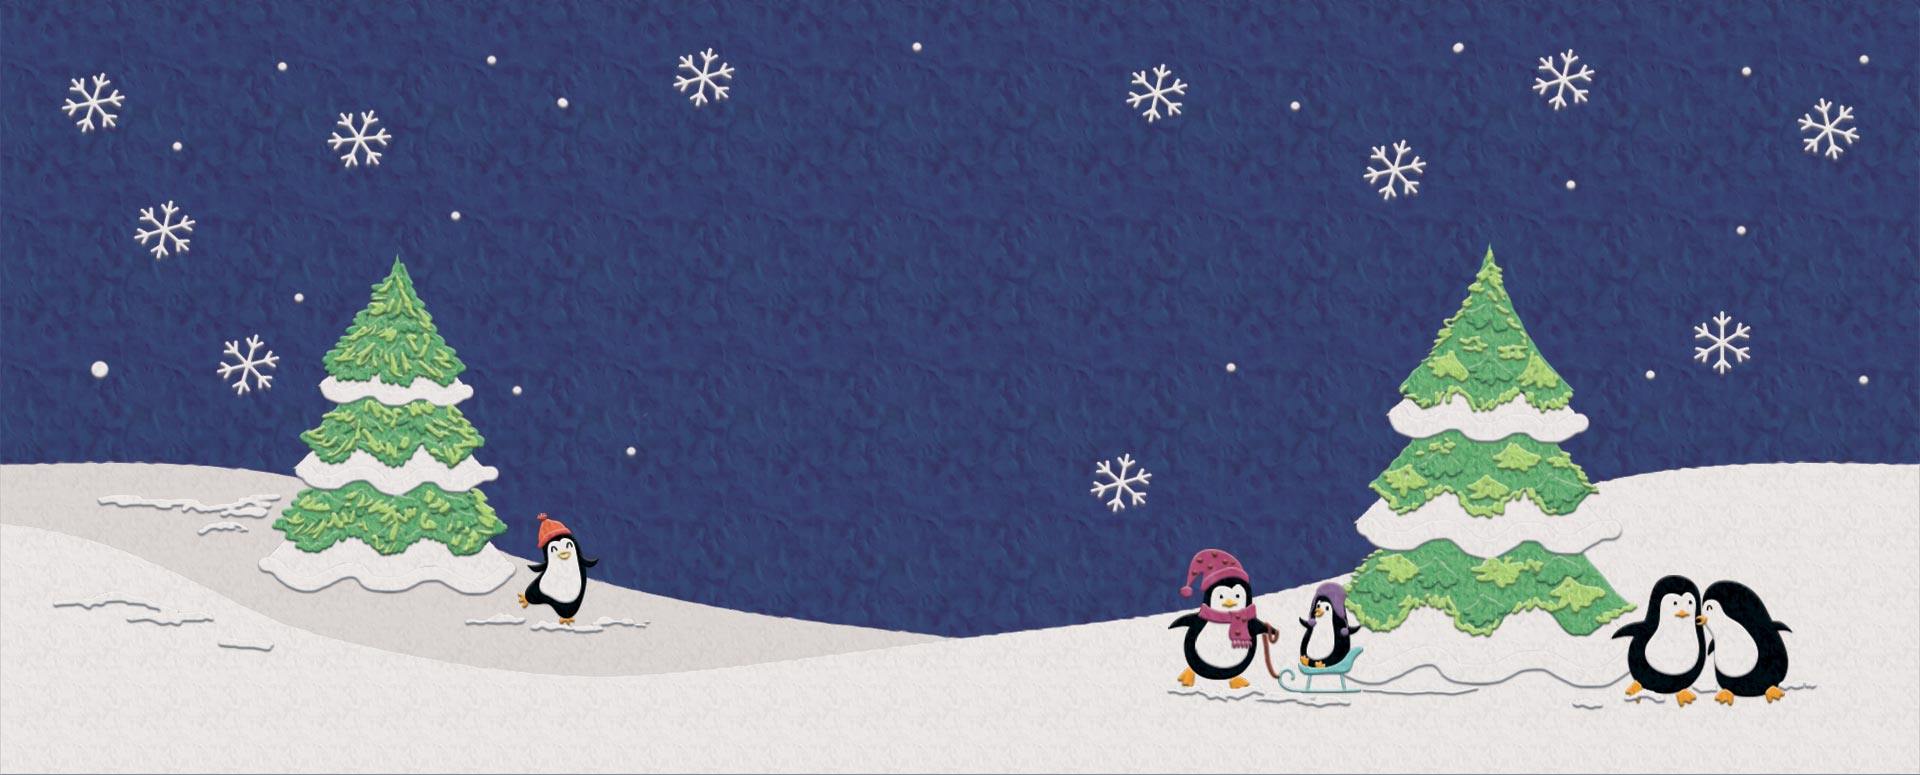
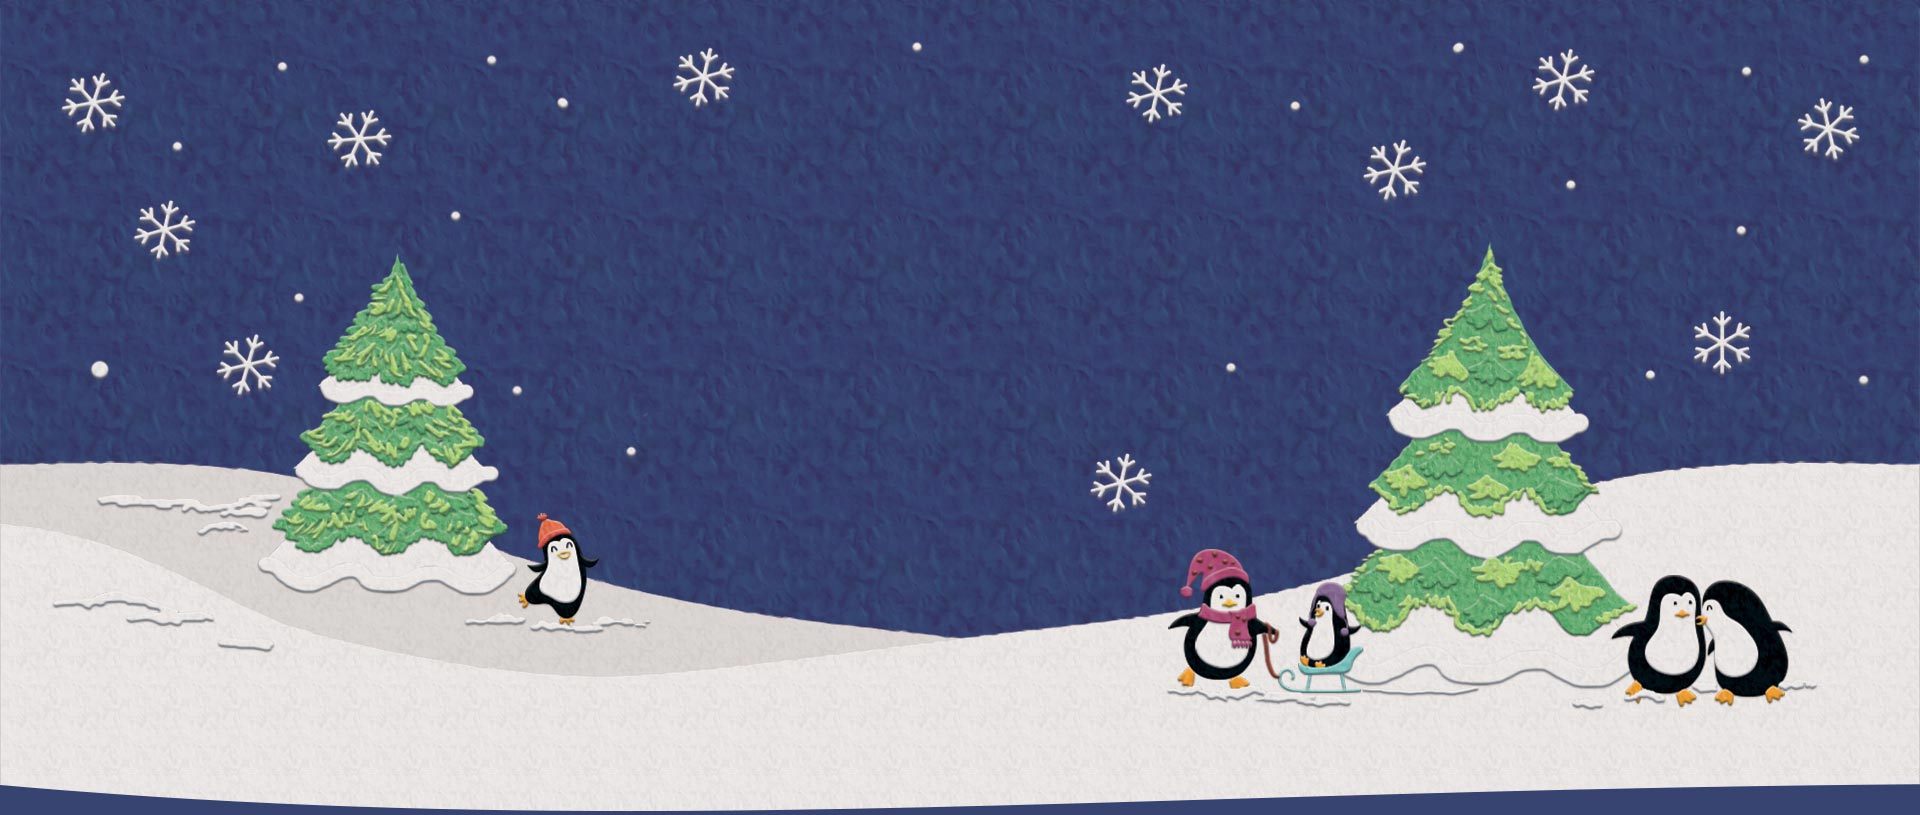
wavy border

diff --git a/index.html b/index.html
@@ -81,7 +81,7 @@ e.async=true;var t=document.getElementsByTagName("script")[0];t.parentNode.inser
 <style>
 .winter-bg {
 	background: #364473 url(winter-background.jpg)no-repeat bottom center/cover;
-	min-height: 775px;
+	min-height: 815px;
 	
 }
 .featured {
@@ -286,11 +286,11 @@ height="0" width="0" style="display:none;visibility:hidden"></iframe>
       <div class="padding-top-30"><img class="img-responsive image-center" src="celebrate.png" alt="Celebrate the Season">
         <h1 class="caveat grow"><a href="https://blogs.douglascountylibraries.org/blog/2017/12/05/12-books-to-give/">12 Books to Give</a></h1>
         <h1 class="caveat grow"><a href="https://blogs.douglascountylibraries.org/blog/2017/12/06/5-great-stocking-stuffers-book-lovers/">Stocking Stuffers for Book Lovers</a></h1>
-        <div class="col-sm-4 col-sm-push-1 col-md-push-2 col-lg-push-2 padding-top-30"><img class="img-responsive image-center" src="snowman.png" alt="Snowman"></div>
+        <div class="col-sm-4 col-sm-push-1 col-md-push-2 col-lg-push-2 padding-top-15"><img class="img-responsive image-center" src="snowman.png" alt="Snowman"></div>
       </div>
     </div>
   </div>
-  <div class="row featured padding-top-15 padding-bottom-20">
+  <div class="row featured padding-bottom-20">
     <div class="container">
       <div class="col-md-4 text-center padding-left-30 padding-right-30 padding-top-15 padding-bottom-15">
         <div style="padding:0 0 0;" class="icon-circle-default"><i class="fa fa-tree"></i></div>
